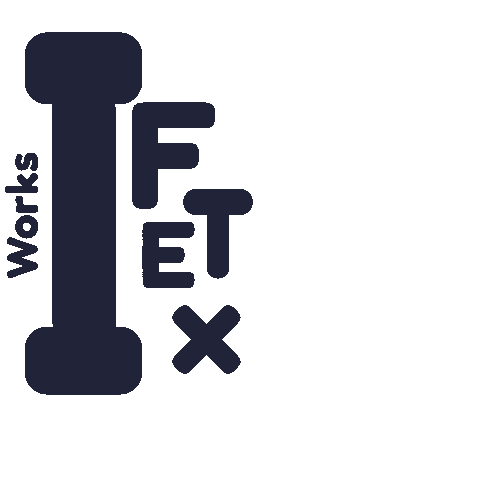
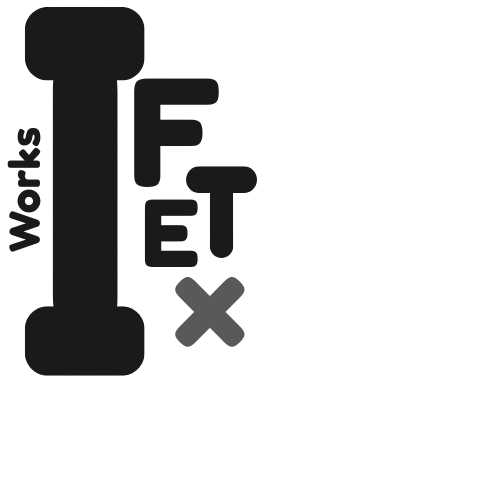
context-menu and theme-switcher updates

Changed region(s): [[0.0, 0.0, 0.51, 0.81]]

diff --git a/styles.css b/styles.css
@@ -18,6 +18,10 @@
             --nav: #ffffff;
             --logo: url(Assets/logo.png);
             --hover: #2e2e2e;
+            --default-txt: #ffffff;
+            --dropdown-bg: rgba(20, 20, 20, 0.95);
+            --bt-color: #ffffff;
+            --context-bg: #222222;
         }
 
         body[data-theme="light"] {
@@ -30,7 +34,10 @@
             --nav: #000000;
             --logo: url(assets/IftexDark.png);
             --hover: #b1b0b0;
-            
+            --default-txt: #000000;
+            --dropdown-bg: rgba(207, 207, 207, 0.8);
+            --bt-color: #000000;
+            --context-bg: #f0f0f0;
         }
 
 
@@ -62,6 +69,36 @@
             padding: 0;
             margin: 0 auto;
         }
+
+        /*Custom Context Menu*/
+          #custom-menu {
+    position: absolute;
+    background: var(--context-bg);
+    color: var(--default-txt);
+    box-shadow: 0 4px 12px rgba(0,0,0,0.1);
+    display: none;
+    min-width: 180px;
+    z-index: 9999;
+    font-family: Arial, sans-serif;
+    border-radius: 6px;
+    overflow: hidden;
+  }
+
+  #custom-menu ul {
+    list-style: none;
+    padding: 0;
+    margin: 0;
+  }
+
+  #custom-menu ul li {
+    padding: 10px 15px;
+    cursor: pointer;
+    transition: background 0.2s;
+  }
+
+  #custom-menu ul li:hover {
+    background: var(--hover);
+  }
 
         
 
@@ -162,7 +199,7 @@
 
         .navbut:hover{
             background: transparent;
-            color: #E0E0E0;
+            color: var(--bt-color);
         }
 
         .navbar ul {
@@ -171,7 +208,7 @@
         }
 
         #menu-icon {
-            color: #E0E0E0;
+            color: var(--default-txt);
             font-size: 28px;
             cursor: pointer;
             z-index: 1000;
@@ -186,7 +223,7 @@
             right: -100%;
             width: 70%;
             height: 100vh;
-            background: rgba(20, 20, 20, 0.95);
+            background: var(--dropdown-bg);
             backdrop-filter: blur(10px);
             z-index: 999;
             padding: 80px 30px 30px;
@@ -213,7 +250,7 @@
 
 
         .dropdown-menu .menu {
-            color: #E0E0E0;
+            color: var(--default-txt);
             text-decoration: none;
             font-size: 1.4rem;
             display: block;
@@ -712,7 +749,7 @@ background: linear-gradient(120deg, #a1c4fd 0%, #c2e9fb 100%);
 
         /* Resources Section */
         .resources {
-            padding: 60px 20px;
+            padding: 60px 10px;
         }
 
         .resources h2 {
@@ -818,6 +855,7 @@ background: linear-gradient(120deg, #a1c4fd 0%, #c2e9fb 100%);
         .fab {
             font-size: 1.8rem;
             transition: transform 0.3s ease-out;
+            margin-bottom: 15px;
         }
 
         .fab:hover {
@@ -830,7 +868,7 @@ background: linear-gradient(120deg, #a1c4fd 0%, #c2e9fb 100%);
             left: 0;
             right: 0;
             text-align: center;
-            color: #ffffff;
+            color: var(--default-txt);
             font-size: 0.9rem;
         }
 

diff --git a/index.html b/index.html
@@ -15,6 +15,10 @@
     </style>
 </head>
 <body>
+    <!--Custom context-menu-->
+    <div id="custom-menu">
+  <ul id="menu-items"></ul>
+</div>
     
 <!--Maintenance-->
     <div class="maintenance-bar">
@@ -103,7 +107,7 @@
 
         <!-- About Section -->
         <section class="about" id="about" data-aos="fade-left" data-aos-easing="ease-out" data-aos-delay="250">
-            <img id="abtlogo" data-light="Assets/Iftexabout_dark.png" data-dark="Assets/Iftex about.png" alt="About Logo" draggable="false">
+            <img data-light="Assets/Iftexabout_dark.png" data-dark="Assets/Iftex about.png" alt="About Logo" draggable="false">
             <div class="about-content">
                 
                 <h2>Biography</h2>
@@ -363,7 +367,7 @@
         <div class="container">
             <div class="footer-content">
                 <div class="imgfooter">
-                    <img src="Assets/Iftexfooter.png" draggable="false" alt="footer">
+                    <img data-light="Assets/Iftexfooter_dark.png" data-dark="Assets/Iftexfooter.png" alt="footer-icon" draggable="false">
                     <p>Probably napping...Thanks for dropping in, hope you enjoyed it.</p>
                 </div>
                 
@@ -397,5 +401,6 @@
     <script src="https://unpkg.com/aos@next/dist/aos.js"></script>
     <script src="script.js"></script>
     <script src="roles.js"></script>
+    <script src="context.js"></script>
 </body>
 </html>

diff --git a/context.js b/context.js
@@ -1,0 +1,46 @@
+const menu = document.getElementById('custom-menu');
+const menuItems = document.getElementById('menu-items');
+
+// Define menu options
+const blankSpaceMenu = [
+  { text: 'Back', action: () => history.back() },
+  { text: 'Forward', action: () => history.forward() },
+  { text: 'Reload', action: () => location.reload() },
+];
+
+const textSelectedMenu = [
+  { text: 'Copy text', action: () => document.execCommand('copy') },
+];
+
+// Hide menu on click anywhere
+document.addEventListener('click', () => {
+  menu.style.display = 'none';
+});
+
+// Show custom menu
+document.addEventListener('contextmenu', (e) => {
+  e.preventDefault(); // Prevent default context menu
+
+  // Clear old menu items
+  menuItems.innerHTML = '';
+
+  // Detect if user selected text
+  const selection = window.getSelection().toString();
+  const menuToShow = selection ? textSelectedMenu : blankSpaceMenu;
+
+  // Add items dynamically
+  menuToShow.forEach(item => {
+    const li = document.createElement('li');
+    li.textContent = item.text;
+    li.onclick = () => {
+      item.action();
+      menu.style.display = 'none';
+    };
+    menuItems.appendChild(li);
+  });
+
+  // Position menu at mouse cursor
+  menu.style.top = `${e.pageY}px`;
+  menu.style.left = `${e.pageX}px`;
+  menu.style.display = 'block';
+});

diff --git a/roles.js b/roles.js
@@ -51,7 +51,7 @@ window.addEventListener('DOMContentLoaded', () => {
 
 
 
-//image switcher acc to theme 
+//image switcher according to theme 
 function updateThemeImages(theme) {
     const allThemeImages = document.querySelectorAll('img[data-light][data-dark]');
     allThemeImages.forEach(img => {
@@ -76,4 +76,19 @@ document.querySelector('#theme-toggle').addEventListener('click', () => {
     localStorage.setItem('theme', theme);
     updateThemeImages(theme);
 });
+
+
+
+// Disable Ctrl+U (View Page Source)
+document.addEventListener('keydown', function(e) {
+    if (e.ctrlKey && (e.key === 'u' || e.key === 'U')) {
+        e.preventDefault(); // Prevent default browser action
+        
+    }
+});
+
+
+//custom context menu 
+
+
 

diff --git a/script.js b/script.js
@@ -248,3 +248,4 @@ document.addEventListener("DOMContentLoaded", () => {
 });
 
 
+
